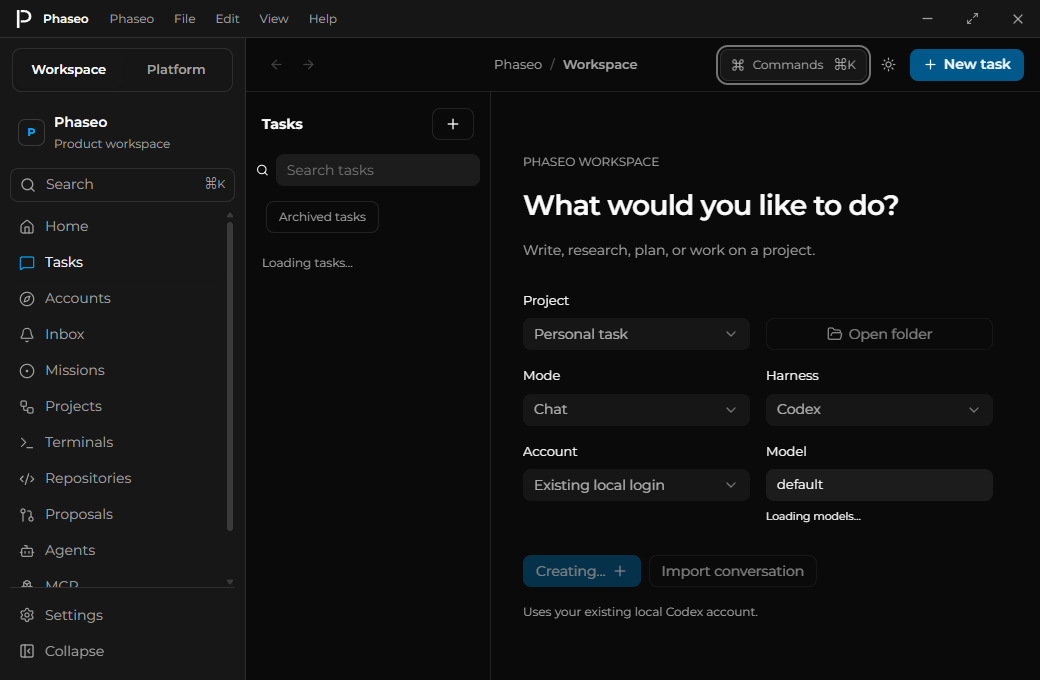
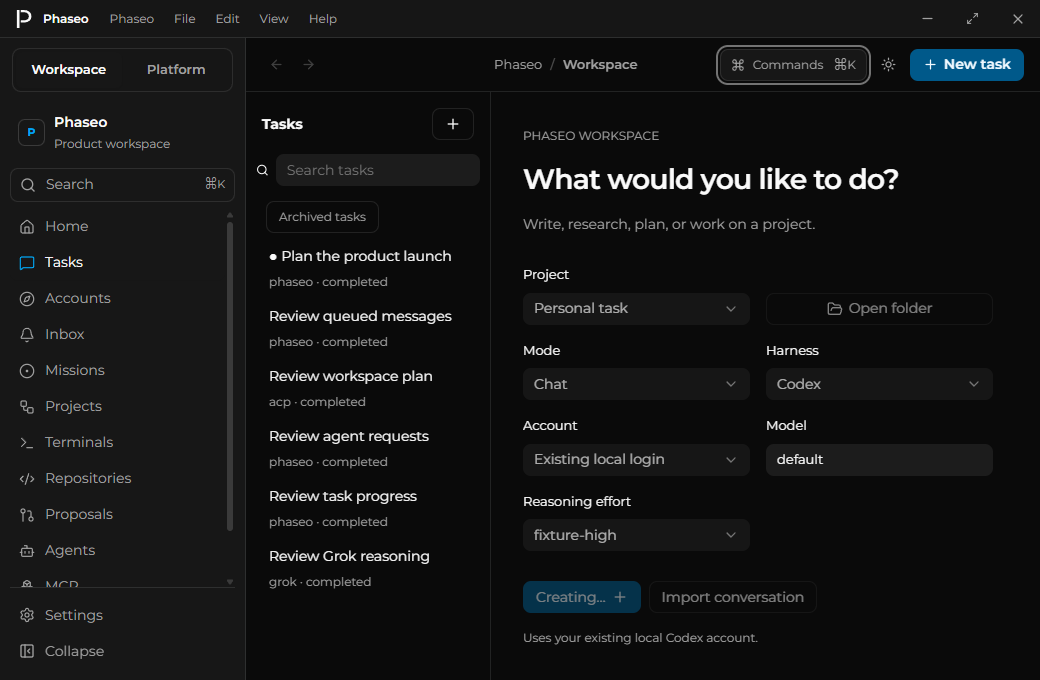
feat(desktop): choose native reasoning before task creation

diff --git a/apps/desktop/src/renderer/views/TaskWorkspace.tsx b/apps/desktop/src/renderer/views/TaskWorkspace.tsx
@@ -27,6 +27,7 @@ export function TaskWorkspace() {
 	const [projectId, setProjectId] = useState("");
 	const [mode, setMode] = useState<Task["mode"]>("chat");
 	const [model, setModel] = useState("default");
+	const [reasoningEffort, setReasoningEffort] = useState("");
 	const [models, setModels] = useState<ModelOption[]>([]);
 	const [modelError, setModelError] = useState("");
 	const [modelsLoading, setModelsLoading] = useState(false);
@@ -51,12 +52,13 @@ export function TaskWorkspace() {
 		return () => { active = false; unsubscribe(); };
 	}, [api]);
 	useEffect(() => {
-		setModels([]); setModelError("");
+		setModels([]); setModelError(""); setReasoningEffort("");
 		if (!api || !["codex", "phaseo", "opencode", "pi", "cursor", "grok"].includes(harness) || (["phaseo", "cursor"].includes(harness) && !accountId)) { setModelsLoading(false); return; }
 		let active = true; setModelsLoading(true);
 		void api.models(harness, accountId || undefined, projectId || undefined).then(result => { if (active) setModels(result); }, reason => { if (active) setModelError(reason instanceof Error ? reason.message : String(reason)); }).finally(() => { if (active) setModelsLoading(false); });
 		return () => { active = false; };
 	}, [api, harness, accountId, projectId]);
+	const setupModel = models.find(value => model === "default" ? value.default : value.id === model);
 	const selectedSnapshot = workspace.tasks.find(task => task.id === selectedId);
 	const selectedDetail = useSelectedTask(api?.task, selectedId, selectedSnapshot ? JSON.stringify([selectedSnapshot.revision, selectedSnapshot.updatedAt]) : undefined);
 	const selected = selectedDetail.task;
@@ -77,7 +79,7 @@ export function TaskWorkspace() {
 		if (setupPending.current || busy) return;
 		setupPending.current = true; setSetupAction("create"); setBusy(true);
 		try {
-			const state = await command({ ...(handoffId ? { type: "handoff" as const, id: handoffId } : { type: "create-task" as const }), harness, model, mode, ...(projectId ? { projectId } : {}), ...(accountId ? { accountId } : {}), ...(agentId ? { agentId } : {}) });
+			const state = await command({ ...(handoffId ? { type: "handoff" as const, id: handoffId } : { type: "create-task" as const }), harness, model, mode, ...(projectId ? { projectId } : {}), ...(accountId ? { accountId } : {}), ...(agentId ? { agentId } : {}), ...(harness === "codex" && reasoningEffort ? { reasoningEffort } : {}) });
 			if (state) { setSelectedId(state.tasks.find(task => !workspace.tasks.some(existing => existing.id === task.id))?.id); setHandoffId(undefined); }
 		} finally { setupPending.current = false; setSetupAction(undefined); setBusy(false); }
 	}
@@ -85,7 +87,7 @@ export function TaskWorkspace() {
 		if (!api || setupPending.current || busy) return;
 		setupPending.current = true; setSetupAction("import"); setBusy(true); setError("");
 		try {
-			const result = await api.importTask({ type: "create-task", harness, model, mode, ...(projectId ? { projectId } : {}), ...(accountId ? { accountId } : {}), ...(agentId ? { agentId } : {}) });
+			const result = await api.importTask({ type: "create-task", harness, model, mode, ...(projectId ? { projectId } : {}), ...(accountId ? { accountId } : {}), ...(agentId ? { agentId } : {}), ...(harness === "codex" && reasoningEffort ? { reasoningEffort } : {}) });
 			if (result) { setWorkspace(result.workspace); setSelectedId(result.taskId); setHandoffId(undefined); }
 		} catch (reason) { setError((reason instanceof Error ? reason.message : String(reason)).replace(/^Error invoking remote method '[^']+': (?:Error: )?/, "")); } finally { setupPending.current = false; setSetupAction(undefined); setBusy(false); }
 	}
@@ -127,7 +129,8 @@ export function TaskWorkspace() {
 					<label>Harness<select value={harness} onChange={event => { setHarness(event.target.value as Harness); if (event.target.value === "grok" && mode === "chat") setMode("plan"); setAccountId(""); setAgentId(""); setModel("default"); }}><option value="codex">Codex</option><option value="claude">Claude Code</option><option value="opencode">OpenCode 2</option><option value="pi">Pi</option><option value="cursor">Cursor</option><option value="grok">Grok</option><option value="phaseo">Phaseo</option><option value="acp">ACP agent</option></select></label>
 					{harness === "acp" && <label>Agent<select value={agentId} onChange={event => setAgentId(event.target.value)}><option value="">Choose a connected agent</option>{workspace.agents.filter(agent => !agent.archived).map(agent => <option key={agent.id} value={agent.id}>{agent.name}</option>)}</select></label>}
 					{harness !== "acp" && harness !== "pi" && <label>Account<select value={accountId} onChange={event => setAccountId(event.target.value)}><option value="">{harness === "phaseo" ? "Choose an API account" : harness === "cursor" ? "Choose a Cursor account" : "Existing local login"}</option>{workspace.accounts.filter(account => account.harness === harness && !account.archived).map(account => <option key={account.id} value={account.id} disabled={!account.configured}>{account.name}{account.configured ? "" : " — sign-in required"}</option>)}</select></label>}
-					<label>Model<input list="workspace-models" value={model} onChange={event => setModel(event.target.value)} aria-label="Model" /><datalist id="workspace-models">{models.map(model => <option key={model.id} value={model.id}>{model.name}</option>)}</datalist>{modelsLoading && <small>Loading models…</small>}{modelError && <small>{modelError}</small>}</label>
+					<label>Model<input list="workspace-models" value={model} onChange={event => { setModel(event.target.value); setReasoningEffort(""); }} aria-label="Model" /><datalist id="workspace-models">{models.map(model => <option key={model.id} value={model.id}>{model.name}</option>)}</datalist>{modelsLoading && <small>Loading models…</small>}{modelError && <small>{modelError}</small>}</label>
+					{harness === "codex" && <label>Reasoning effort<select aria-label="Initial reasoning effort" value={reasoningEffort} disabled={modelsLoading} onChange={event => setReasoningEffort(event.target.value)}><option value="">Default{setupModel?.defaultReasoningEffort ? ` (${setupModel.defaultReasoningEffort})` : ""}</option>{setupModel?.reasoningEfforts?.map(value => <option key={value.id} value={value.id} title={value.description}>{value.id}</option>)}</select></label>}
 				</fieldset>
 				{handoffId && <p className="task-muted">Continue “{workspace.tasks.find(task => task.id === handoffId)?.title}” with the selected harness. Conversation messages carry over; native tool state stays with the original task.</p>}
 				<div className="task-controls">
@@ -141,7 +144,7 @@ export function TaskWorkspace() {
 					<button type="button" aria-label={selected.archived ? "Restore task" : "Archive task"} disabled={selected.status === "running" || selected.status === "waiting"} onClick={() => { void command({ type: "update-task", id: selected.id, archived: !selected.archived }).then(state => { if (state) setSelectedId(undefined); }); }}><Archive size={16} /></button>
 					<button type="button" aria-label={selected.pinned ? "Unpin task" : "Pin task"} onClick={() => void command({ type: "update-task", id: selected.id, pinned: !selected.pinned })}><Pin size={16} /></button>
 					<button type="button" aria-label="Fork task history" onClick={() => { void command({ type: "fork", id: selected.id }).then(state => { if (state) setSelectedId(state.tasks.find(task => !workspace.tasks.some(existing => existing.id === task.id))?.id); }); }}><GitFork size={16} /></button>
-					<button type="button" aria-label="Handoff" title="Handoff" disabled={selected.status === "running" || selected.status === "waiting"} onClick={() => { setHandoffId(selected.id); setProjectId(workspace.projects.some(project => project.id === selected.projectId && !project.worktree?.removedAt) ? selected.projectId! : ""); setMode(selected.mode); setHarness(selected.harness); setAccountId(""); setAgentId(""); setModel("default"); setSelectedId(undefined); }}><ArrowRightLeft size={16} /></button>
+					<button type="button" aria-label="Handoff" title="Handoff" disabled={selected.status === "running" || selected.status === "waiting"} onClick={() => { setHandoffId(selected.id); setProjectId(workspace.projects.some(project => project.id === selected.projectId && !project.worktree?.removedAt) ? selected.projectId! : ""); setMode(selected.mode); setHarness(selected.harness); setAccountId(""); setAgentId(""); setModel("default"); setReasoningEffort(""); setSelectedId(undefined); }}><ArrowRightLeft size={16} /></button>
 				<button type="button" aria-label="Task settings" title="Task settings" aria-expanded={settingsId === selected.id} disabled={selected.archived || selected.status === "running" || selected.status === "waiting"} onClick={() => setSettingsId(value => value === selected.id ? undefined : selected.id)}><Settings2 size={16} /></button>
 				</header>
 				{settingsId === selected.id && !selected.archived && selected.status !== "running" && selected.status !== "waiting" && <TaskSettings key={selected.id} task={selected} close={() => setSettingsId(undefined)} save={async (model, mode, reasoningEffort, nativeMode) => Boolean(await command({ type: "update-task", id: selected.id, model, mode, ...(["codex", "acp", "grok"].includes(selected.harness) ? { reasoningEffort } : {}), ...(selected.harness === "acp" ? { nativeMode } : {}) }))} />}

diff --git a/apps/desktop/src/main/taskSettings.test.ts b/apps/desktop/src/main/taskSettings.test.ts
@@ -7,6 +7,29 @@ import { WorkspaceStore } from "./workspaceStore";
 import { validateCommand } from "../shared/workspace";
 
 describe("existing conversation settings", () => {
+	it("persists initial effort through creation, handoff, import and database reopening", () => {
+		const directory=mkdtempSync(path.join(tmpdir(),"phaseo-initial-effort-")),filename=path.join(directory,"workspace.sqlite");let store=new WorkspaceStore(filename);
+		try {
+			const source=store.apply({type:"create-task",harness:"codex",model:"native",mode:"plan",reasoningEffort:"high"});
+			const destination=store.apply({type:"handoff",id:source.id,harness:"codex",model:"other",mode:"code",reasoningEffort:"low"});
+			const imported=store.importTask({type:"create-task",harness:"codex",model:"native",mode:"chat",reasoningEffort:"medium"},{title:"Imported",messages:[],createdAt:"2026-10-04T00:00:00Z"},[]);
+			store.close();store=new WorkspaceStore(filename);
+			expect(store.getTask(source.id).reasoningEffort).toBe("high");expect(store.getTask(destination.id)).toMatchObject({reasoningEffort:"low",parentId:source.id});expect(store.getTask(imported.id).reasoningEffort).toBe("medium");
+			expect(store.apply({type:"create-task",harness:"codex",model:"custom",mode:"code"}).reasoningEffort).toBeUndefined();
+		} finally {store.close();rmSync(directory,{recursive:true,force:true});}
+	});
+	it("rejects malformed initial effort and unsupported harnesses before creating tasks", () => {
+		const store=new WorkspaceStore(":memory:");try {
+			for(const type of ["create-task","handoff"])for(const reasoningEffort of [42,"bad\0value","x".repeat(101)])expect(()=>validateCommand({type,id:"source",harness:"codex",model:"native",mode:"plan",reasoningEffort})).toThrow("reasoning effort");
+			expect(()=>store.apply({type:"create-task",harness:"claude",model:"default",mode:"code",reasoningEffort:"high"})).toThrow("Initial reasoning");expect(store.getOverview().tasks).toHaveLength(0);
+		}finally{store.close();}
+	});
+	it("passes initial reasoning effort to the first native turn", async () => {
+		const directory=mkdtempSync(path.join(tmpdir(),"phaseo-effort-turn-")),run=vi.fn(async()=>{}),runtime=new WorkspaceRuntime(directory,()=>({run,cancel:async()=>{}}));
+		try {const created=await runtime.command({type:"create-task",harness:"codex",model:"native",mode:"plan",reasoningEffort:"high"});await runtime.command({type:"send",id:created.tasks[0].id,text:"Plan"});await vi.waitFor(()=>expect(run).toHaveBeenCalledOnce());expect(run.mock.calls[0]).toEqual(expect.arrayContaining([expect.objectContaining({reasoningEffort:"high",model:"native",mode:"plan"})]));}
+		finally{await runtime.close();rmSync(directory,{recursive:true,force:true});}
+	});
+
 	it("persists ACP mode selections and rejects unsupported harnesses and malformed IPC", () => {
 		const store = new WorkspaceStore(":memory:");
 		try {

diff --git a/apps/desktop/src/main/workspaceStore.ts b/apps/desktop/src/main/workspaceStore.ts
@@ -186,13 +186,14 @@ export class WorkspaceStore {
 			destination.messages = source.messages; this.saveTask(destination); return destination;
 		}
 		if (command.type === "create-task") {
+			if (command.reasoningEffort !== undefined && command.harness !== "codex") throw new Error("Initial reasoning effort currently requires the Codex harness.");
 			if (command.harness === "grok" && command.mode === "chat") throw new Error("Grok currently supports Code and Plan tasks.");
 			if (command.projectId && !this.getProjects().some(project => project.id === command.projectId && !project.worktree?.removedAt)) throw new Error("Project no longer exists or its worktree has been removed.");
 			if (command.accountId && !this.getAccounts().some(account => account.id === command.accountId && account.harness === command.harness && account.configured && !account.archived)) throw new Error("Account is unavailable for this harness. Restore it or sign in first.");
 			if ((command.harness === "phaseo" || command.harness === "cursor") && !command.accountId) throw new Error(`Choose an account for the ${command.harness === "cursor" ? "Cursor" : "Phaseo"} harness.`);
 			if (command.harness === "acp" && !this.getAgents().some(agent => agent.id === command.agentId && !agent.archived)) throw new Error("Choose an active connected ACP agent.");
 			const now = new Date().toISOString();
-			const task: Task = { id: randomUUID(), title: "New task", projectId: command.projectId, harness: command.harness, accountId: command.accountId, agentId: command.agentId, model: command.model, mode: command.mode, status: "idle", messages: [], queue: [], pinned: false, archived: false, createdAt: now, updatedAt: now };
+			const task: Task = { id: randomUUID(), title: "New task", projectId: command.projectId, harness: command.harness, accountId: command.accountId, agentId: command.agentId, model: command.model, mode: command.mode, reasoningEffort: command.reasoningEffort, status: "idle", messages: [], queue: [], pinned: false, archived: false, createdAt: now, updatedAt: now };
 			this.saveTask(task); return task;
 		}
 		const task = this.getTask(command.id);

diff --git a/apps/desktop/src/shared/workspace.ts b/apps/desktop/src/shared/workspace.ts
@@ -64,8 +64,8 @@ export type WorkspaceCommand =
 	| { type: "update-account"; id: string; name?: string; endpoint?: string; apiKey?: string; archived?: boolean }
 	| { type: "add-agent"; name: string; executable: string; arguments: string[] }
 	| { type: "update-agent"; id: string; name?: string; executable?: string; arguments?: string[]; archived?: boolean }
-	| { type: "create-task"; projectId?: string; harness: Harness; accountId?: string; agentId?: string; model: string; mode: Task["mode"] }
-	| { type: "handoff"; id: string; projectId?: string; harness: Harness; accountId?: string; agentId?: string; model: string; mode: Task["mode"] }
+	| { type: "create-task"; projectId?: string; harness: Harness; accountId?: string; agentId?: string; model: string; mode: Task["mode"]; reasoningEffort?: string }
+	| { type: "handoff"; id: string; projectId?: string; harness: Harness; accountId?: string; agentId?: string; model: string; mode: Task["mode"]; reasoningEffort?: string }
 	| { type: "update-task"; id: string; title?: string; pinned?: boolean; archived?: boolean; model?: string; mode?: Task["mode"]; reasoningEffort?: string; nativeMode?: string }
 	| { type: "send"; id: string; text: string; attachments?: string[] }
 	| { type: "steer"; id: string; text: string; attachments?: string[] }
@@ -158,6 +158,7 @@ export function validateCommand(value: unknown): WorkspaceCommand {
 		if (!harnesses.includes(command.harness as Harness)) throw new Error("Unknown harness.");
 		if (!["chat", "code", "plan"].includes(command.mode as string)) throw new Error("Invalid task mode.");
 		string("model"); string("projectId", false); string("accountId", false); string("agentId", false);
+		if (command.reasoningEffort !== undefined && (typeof command.reasoningEffort !== "string" || command.reasoningEffort.length > 100 || [...command.reasoningEffort].some(character => character.charCodeAt(0) < 32))) throw new Error("Invalid reasoning effort.");
 	} else {
 		string("id");
 		switch (command.type) {

diff --git a/apps/desktop/WORKSPACE-PLAN.md b/apps/desktop/WORKSPACE-PLAN.md
@@ -253,7 +253,7 @@ Agent and MCP submit/cancel actions now share a full-width action row beneath th
 
 Conversation code now uses Shiki 4.4.3, matching the website's GitHub light/dark colours. Selected common grammars load locally on demand; unsupported or oversized blocks keep plain text. React token rendering preserves inert markup, indentation, Unicode and trailing newlines. Unit tests verify exact source preservation and bounded fallback; the rendered audit verifies visible colours and clipboard feedback in both themes/window sizes. Copy feedback now survives unrelated renders and resets only when the code text/language changes.
 
-Evidence: desktop lint/typecheck/build pass; 347 deterministic tests cover protocol,
+Evidence: desktop lint/typecheck/build pass; 350 deterministic tests cover protocol,
 queue ordering, cancellation, secret storage, filesystem boundaries, stream framing,
 and SDK approval continuation. An isolated Electron smoke test verified task CRUD,
 IPC validation, renderer navigation, real PTY execution, editor saving and stale-edit
@@ -310,3 +310,5 @@ Desktop panels now follow the current web Card radius formula, with description-
 Conversation settings keep Save/Cancel visible outside bounded scrolling fields. Composer resizing and task setup are bounded to the current window. The packaged layout fixture checks simultaneous settings and maximum composer height while retaining readable transcript space. Full accessibility and scaling validation remain open.
 
 Task creation, handoff and import now share a synchronous pending guard. Configuration stays locked during delivery; failures preserve selections and permit retry. Source creation and packaged creation/handoff workflows verify duplicate suppression and durable results without inference. Full native subscription execution remains unverified.
+
+Initial OpenAI reasoning selection now uses the native model catalogue in task setup, resets when model/account/project changes, and is persisted on create/import/handoff. Default omits an explicit override. Malformed IPC and other-harness overrides reject; the native adapter validates against its current catalogue before starting a turn. Reopened SQLite and first-turn fixtures pass; source and packaged UI checks verify advertised options, resets, retry preservation and distinct destination effort. Initial reasoning/native-mode selection for other harnesses and live signed-in execution remain open.

diff --git a/apps/desktop/docs/design-audit.md b/apps/desktop/docs/design-audit.md
@@ -133,6 +133,10 @@ The sidebar now scrolls independently while Settings and Collapse remain accessi
 
 ![Task creation pending](screenshots/task-create-pending.png)
 
+46. **Initial native reasoning:** task setup offers the selected OpenAI model’s advertised reasoning choices and native default within the existing two-column form. Model changes and handoff setup reset the prior choice. The catalogue is an owned fixture in the layout audit; source and packaged checks verify choice/reset, retry preservation and saved creation/handoff values. The first native turn and unsupported-model rejection have deterministic runtime/protocol coverage. Live account execution and initial choices for other harnesses remain separate gaps.
+
+![Initial reasoning selection](screenshots/task-initial-reasoning.png)
+
 ## Reproduce and limits
 
 Run `pnpm --filter @phaseo/desktop audit:design`. Captures and DOM size/spacing observations are written to `output/playwright/design-audit/after`. The audit waits for the selected page heading before capturing; conversation settings also wait for a rendered frame and verify their inset. It covers eleven pages plus conversation and settings states at 1440×920 and 1040×680 in light and dark modes: 138 screenshots, including code blocks, account editing, expanded agent commands, agent editing and Grok reasoning settings in each theme/window size.
